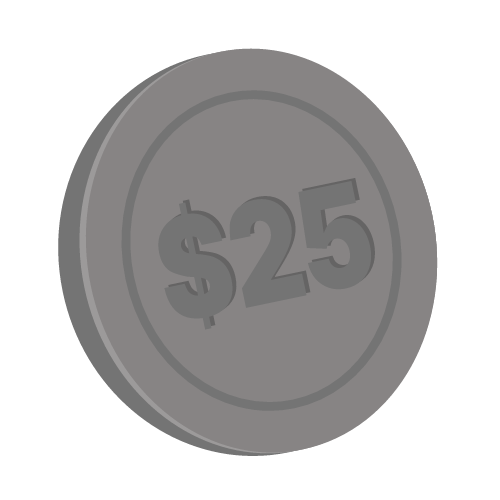
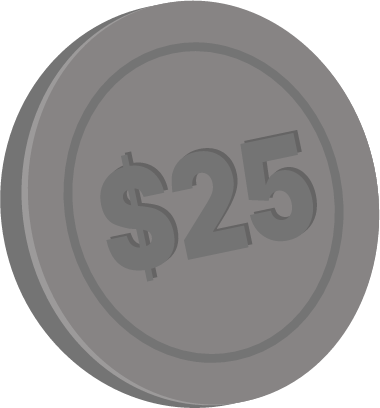
Cropped images and other small changes

diff --git a/game/classes/game.js b/game/classes/game.js
@@ -37,7 +37,7 @@ class Game {
           a.isAlive &&
           b.isAlive
         ) {
-          a.fight(b);
+          a.battle(b);
         }
       }
     }
